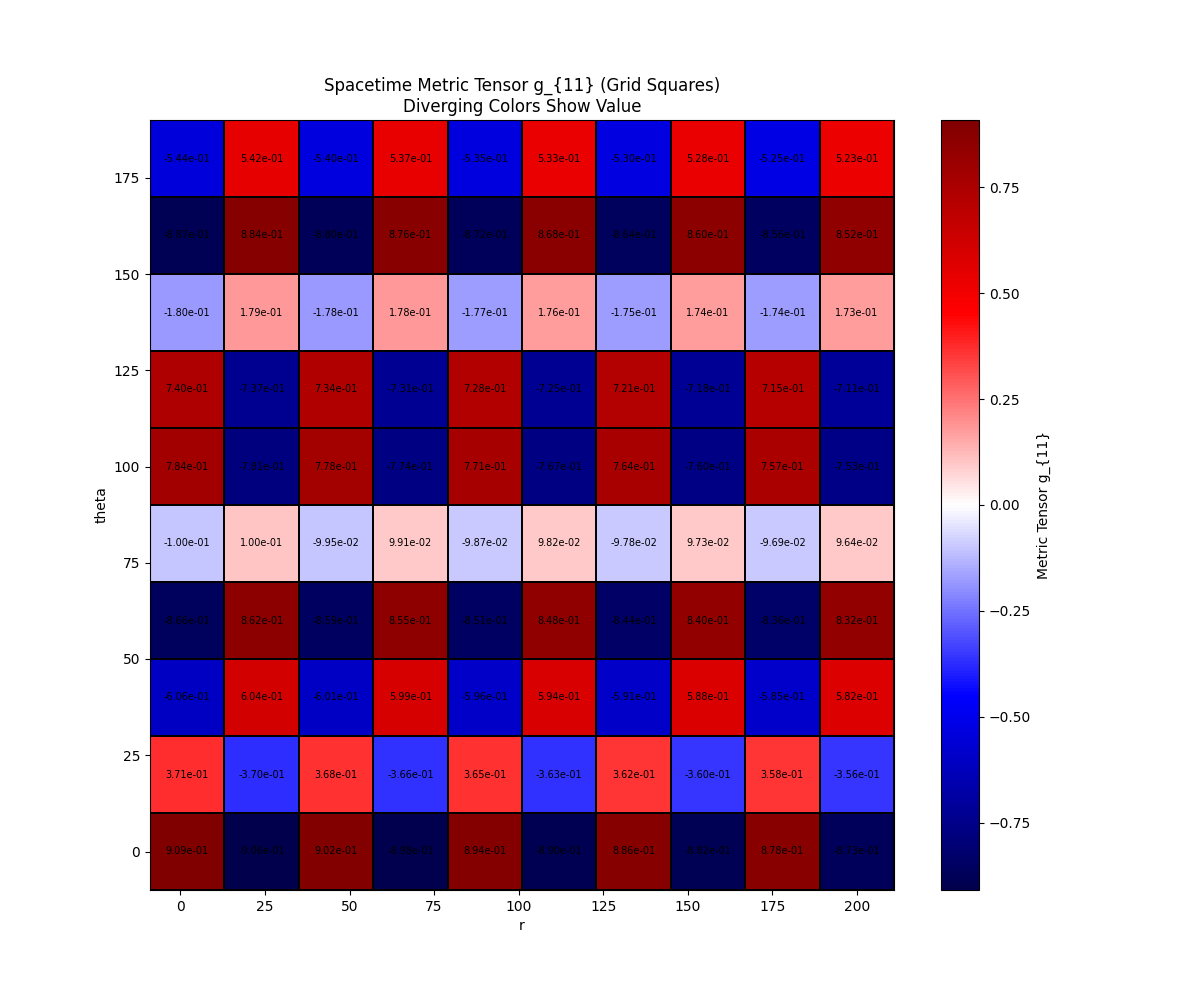
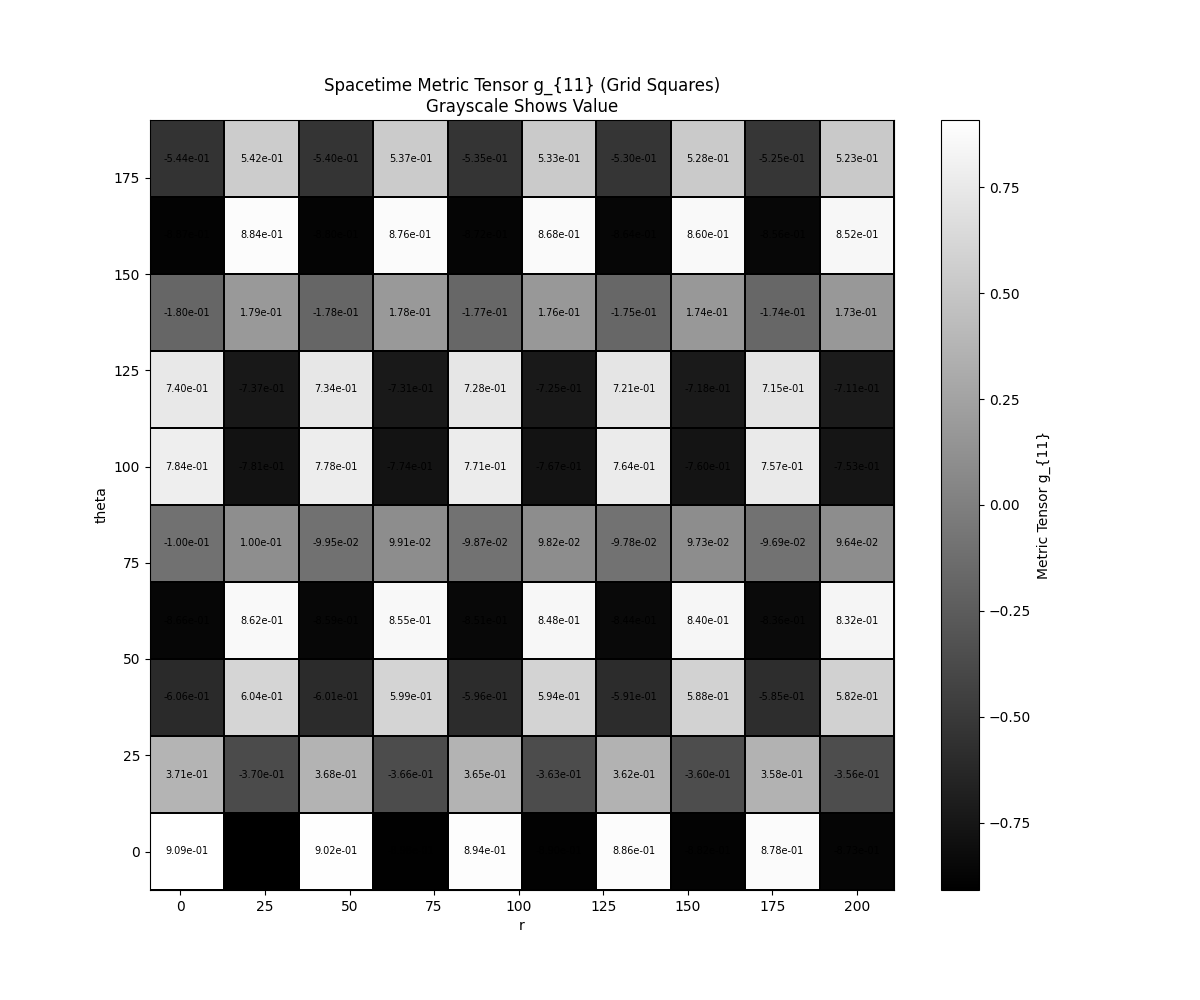
Switch metric tensor plot to grayscale colormap
Changed the metric tensor grid plot in SpaceTime to use a grayscale colormap instead of a diverging one for better visual clarity. Updated plot title and docstring to reflect this change. Regenerated the corresponding PNG output.

diff --git a/spacetimeengine/src/spacetime.py b/spacetimeengine/src/spacetime.py
@@ -3047,7 +3047,7 @@ class SpaceTime:
     def plot_metric_tensor_grid(self, x_range, y_range, mu=1, nu=1, x_index=0, y_index=1, num_points=20, save_path=None):
         """
         Plots the selected metric tensor (dd) component over a grid defined by x_range and y_range.
-        Each cell is shown as an individual square, with a diverging colormap to highlight the metric value.
+        Each cell is shown as an individual square, with a grayscale colormap to highlight the metric value.
         The metric value is printed inside each square.
         """
         if save_path is None:
@@ -3074,11 +3074,15 @@ class SpaceTime:
 
         X, Y = np.meshgrid(x_vals, y_vals)
         plt.figure(figsize=(12, 10))
-        mesh = plt.pcolormesh(X, Y, metric_grid, shading='auto', cmap='seismic', vmin=vmin, vmax=vmax, edgecolors='k', linewidth=0.2)
+        mesh = plt.pcolormesh(
+            X, Y, metric_grid, shading='auto',
+            cmap='gray',  # Use grayscale colormap
+            vmin=vmin, vmax=vmax, edgecolors='k', linewidth=0.2
+        )
         plt.colorbar(mesh, label=f'Metric Tensor g_{{{mu}{nu}}}')
         plt.xlabel(str(x_sym))
         plt.ylabel(str(y_sym))
-        plt.title(f'Spacetime Metric Tensor g_{{{mu}{nu}}} (Grid Squares)\nDiverging Colors Show Value')
+        plt.title(f'Spacetime Metric Tensor g_{{{mu}{nu}}} (Grid Squares)\nGrayscale Shows Value')
 
         # Annotate each cell with its value
         for i in range(num_points):
